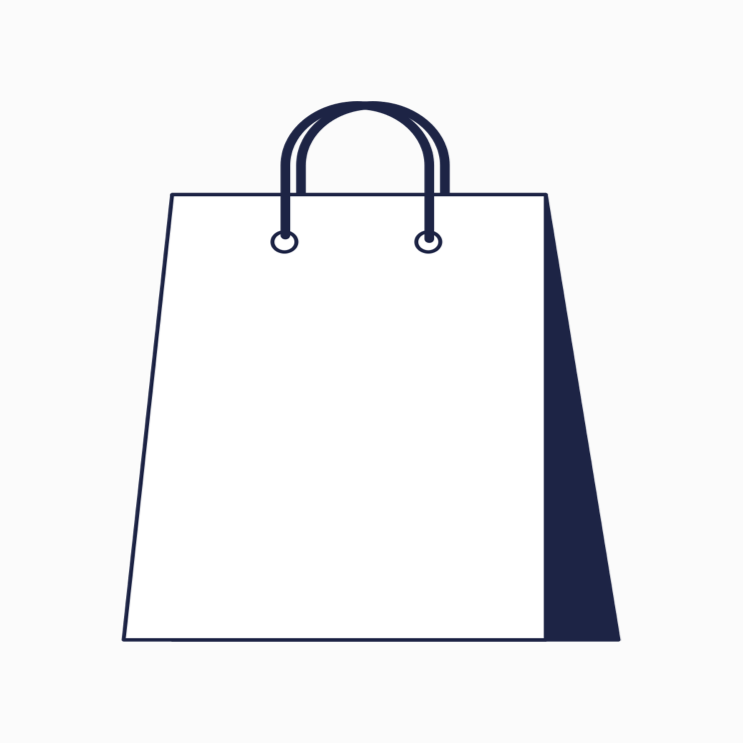
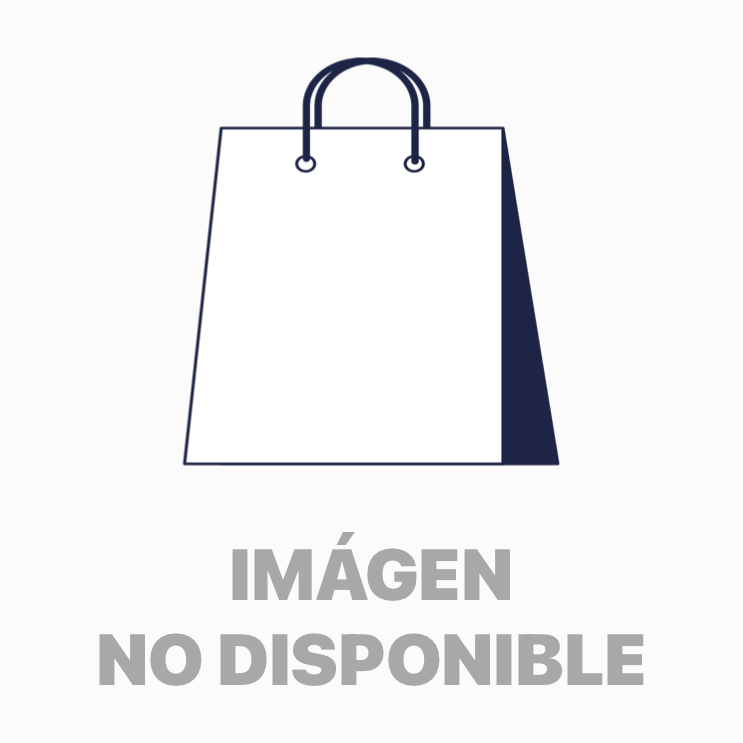
placeholder image based on type (watch & default)

Changed region(s): [[0.1238, 0.0619, 0.8668, 0.9287], [0.1857, 0.4024, 0.2167, 0.681]]

diff --git a/index.js b/index.js
@@ -2,7 +2,7 @@
  * @Author: aleneri97 
  * @Date: 2021-06-19 18:12:25 
  * @Last Modified by: aleneri97
- * @Last Modified time: 2021-06-17 10:04:45
+ * @Last Modified time: 2021-06-17 10:25:40
  */
 // TODO: Ocultar URL
 
@@ -137,9 +137,9 @@ function buildProductCard(product, carousel) {
         button.setAttribute("data-bs-target", "#exampleModal");
         button.onclick = function () {
             carousel.to(0);
-            if (!product.imagen2) product.imagen2 = './placeholder-image.png'
-            if (!product.imagen3) product.imagen3 = './placeholder-image.png'
-            if (!product.imagen4) product.imagen4 = './placeholder-image.png'
+            product.imagen2 = !product.imagen2 ? (product.tipo == 'reloj' ? './placeholder-watch-image.png' : './placeholder-image.png') : product.imagen2
+            product.imagen3 = !product.imagen3 ? (product.tipo == 'reloj' ? './placeholder-watch-image.png' : './placeholder-image.png') : product.imagen3
+            product.imagen4 = !product.imagen4 ? (product.tipo == 'reloj' ? './placeholder-watch-image.png' : './placeholder-image.png') : product.imagen4
             pic1.setAttribute("src", product.imagen);
             pic2.setAttribute("src", product.imagen2);
             pic3.setAttribute("src", product.imagen3);
